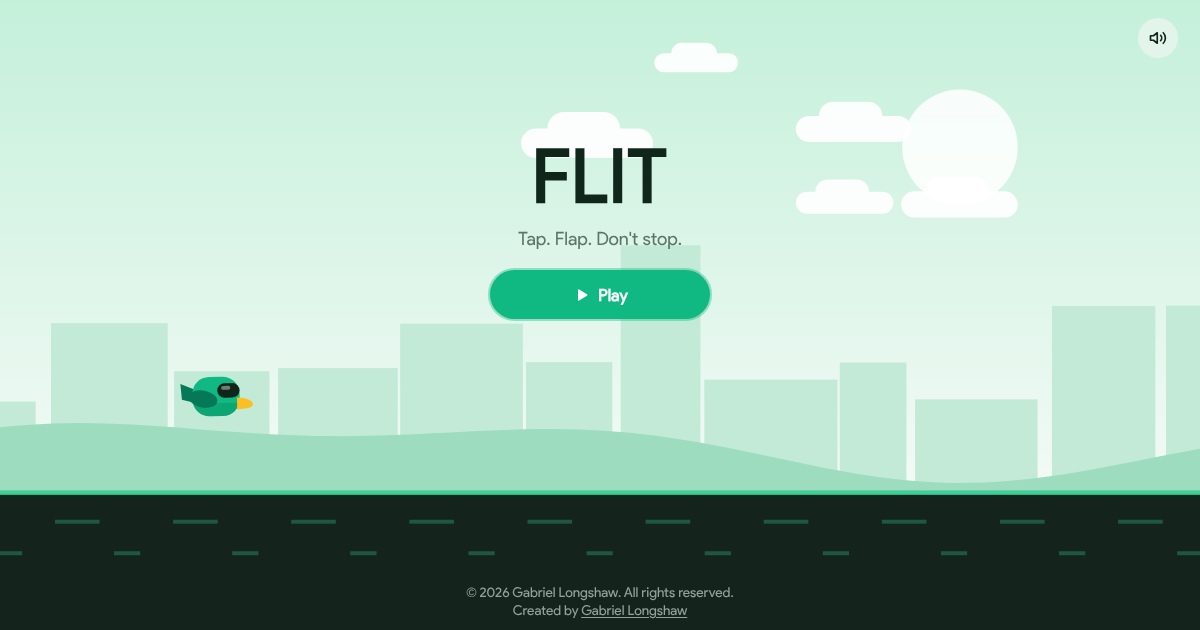
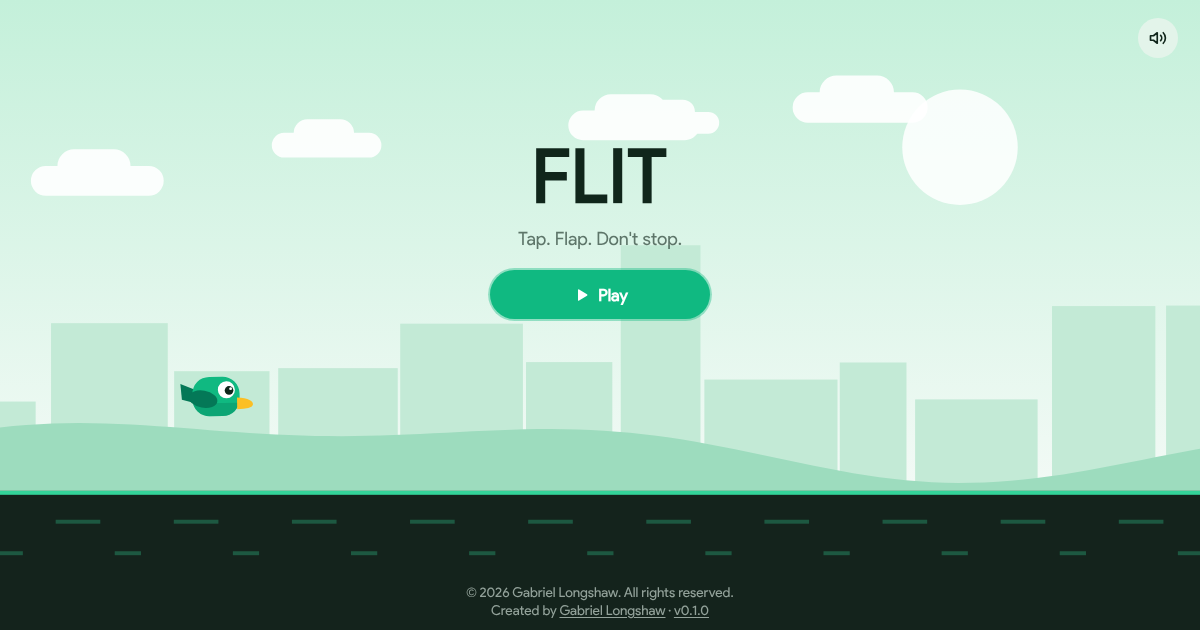
feat(bird): replace visor with a normal eye

diff --git a/assets/js/components/bird.js b/assets/js/components/bird.js
@@ -88,25 +88,29 @@ export class Bird {
     ctx.fill();
     ctx.restore();
 
-    ctx.fillStyle = palette.visor;
+    ctx.fillStyle = '#ffffff';
     ctx.beginPath();
-    ctx.roundRect(1, -10, 17, 11, 5.5);
+    ctx.arc(8, -5, 6.5, 0, Math.PI * 2);
     ctx.fill();
 
     if (this.alive) {
-      ctx.fillStyle = 'rgba(255,255,255,0.4)';
+      ctx.fillStyle = palette.visor;
       ctx.beginPath();
-      ctx.roundRect(4, -8, 7, 3, 1.5);
+      ctx.arc(10, -4.5, 3.3, 0, Math.PI * 2);
+      ctx.fill();
+      ctx.fillStyle = '#ffffff';
+      ctx.beginPath();
+      ctx.arc(11.2, -5.8, 1.1, 0, Math.PI * 2);
       ctx.fill();
     } else {
-      ctx.strokeStyle = 'rgba(255,255,255,0.7)';
+      ctx.strokeStyle = palette.visor;
       ctx.lineWidth = 1.8;
       ctx.lineCap = 'round';
       ctx.beginPath();
-      ctx.moveTo(8, -8);
-      ctx.lineTo(13, -3);
-      ctx.moveTo(13, -8);
-      ctx.lineTo(8, -3);
+      ctx.moveTo(5, -8);
+      ctx.lineTo(11, -2);
+      ctx.moveTo(11, -8);
+      ctx.lineTo(5, -2);
       ctx.stroke();
     }
 
